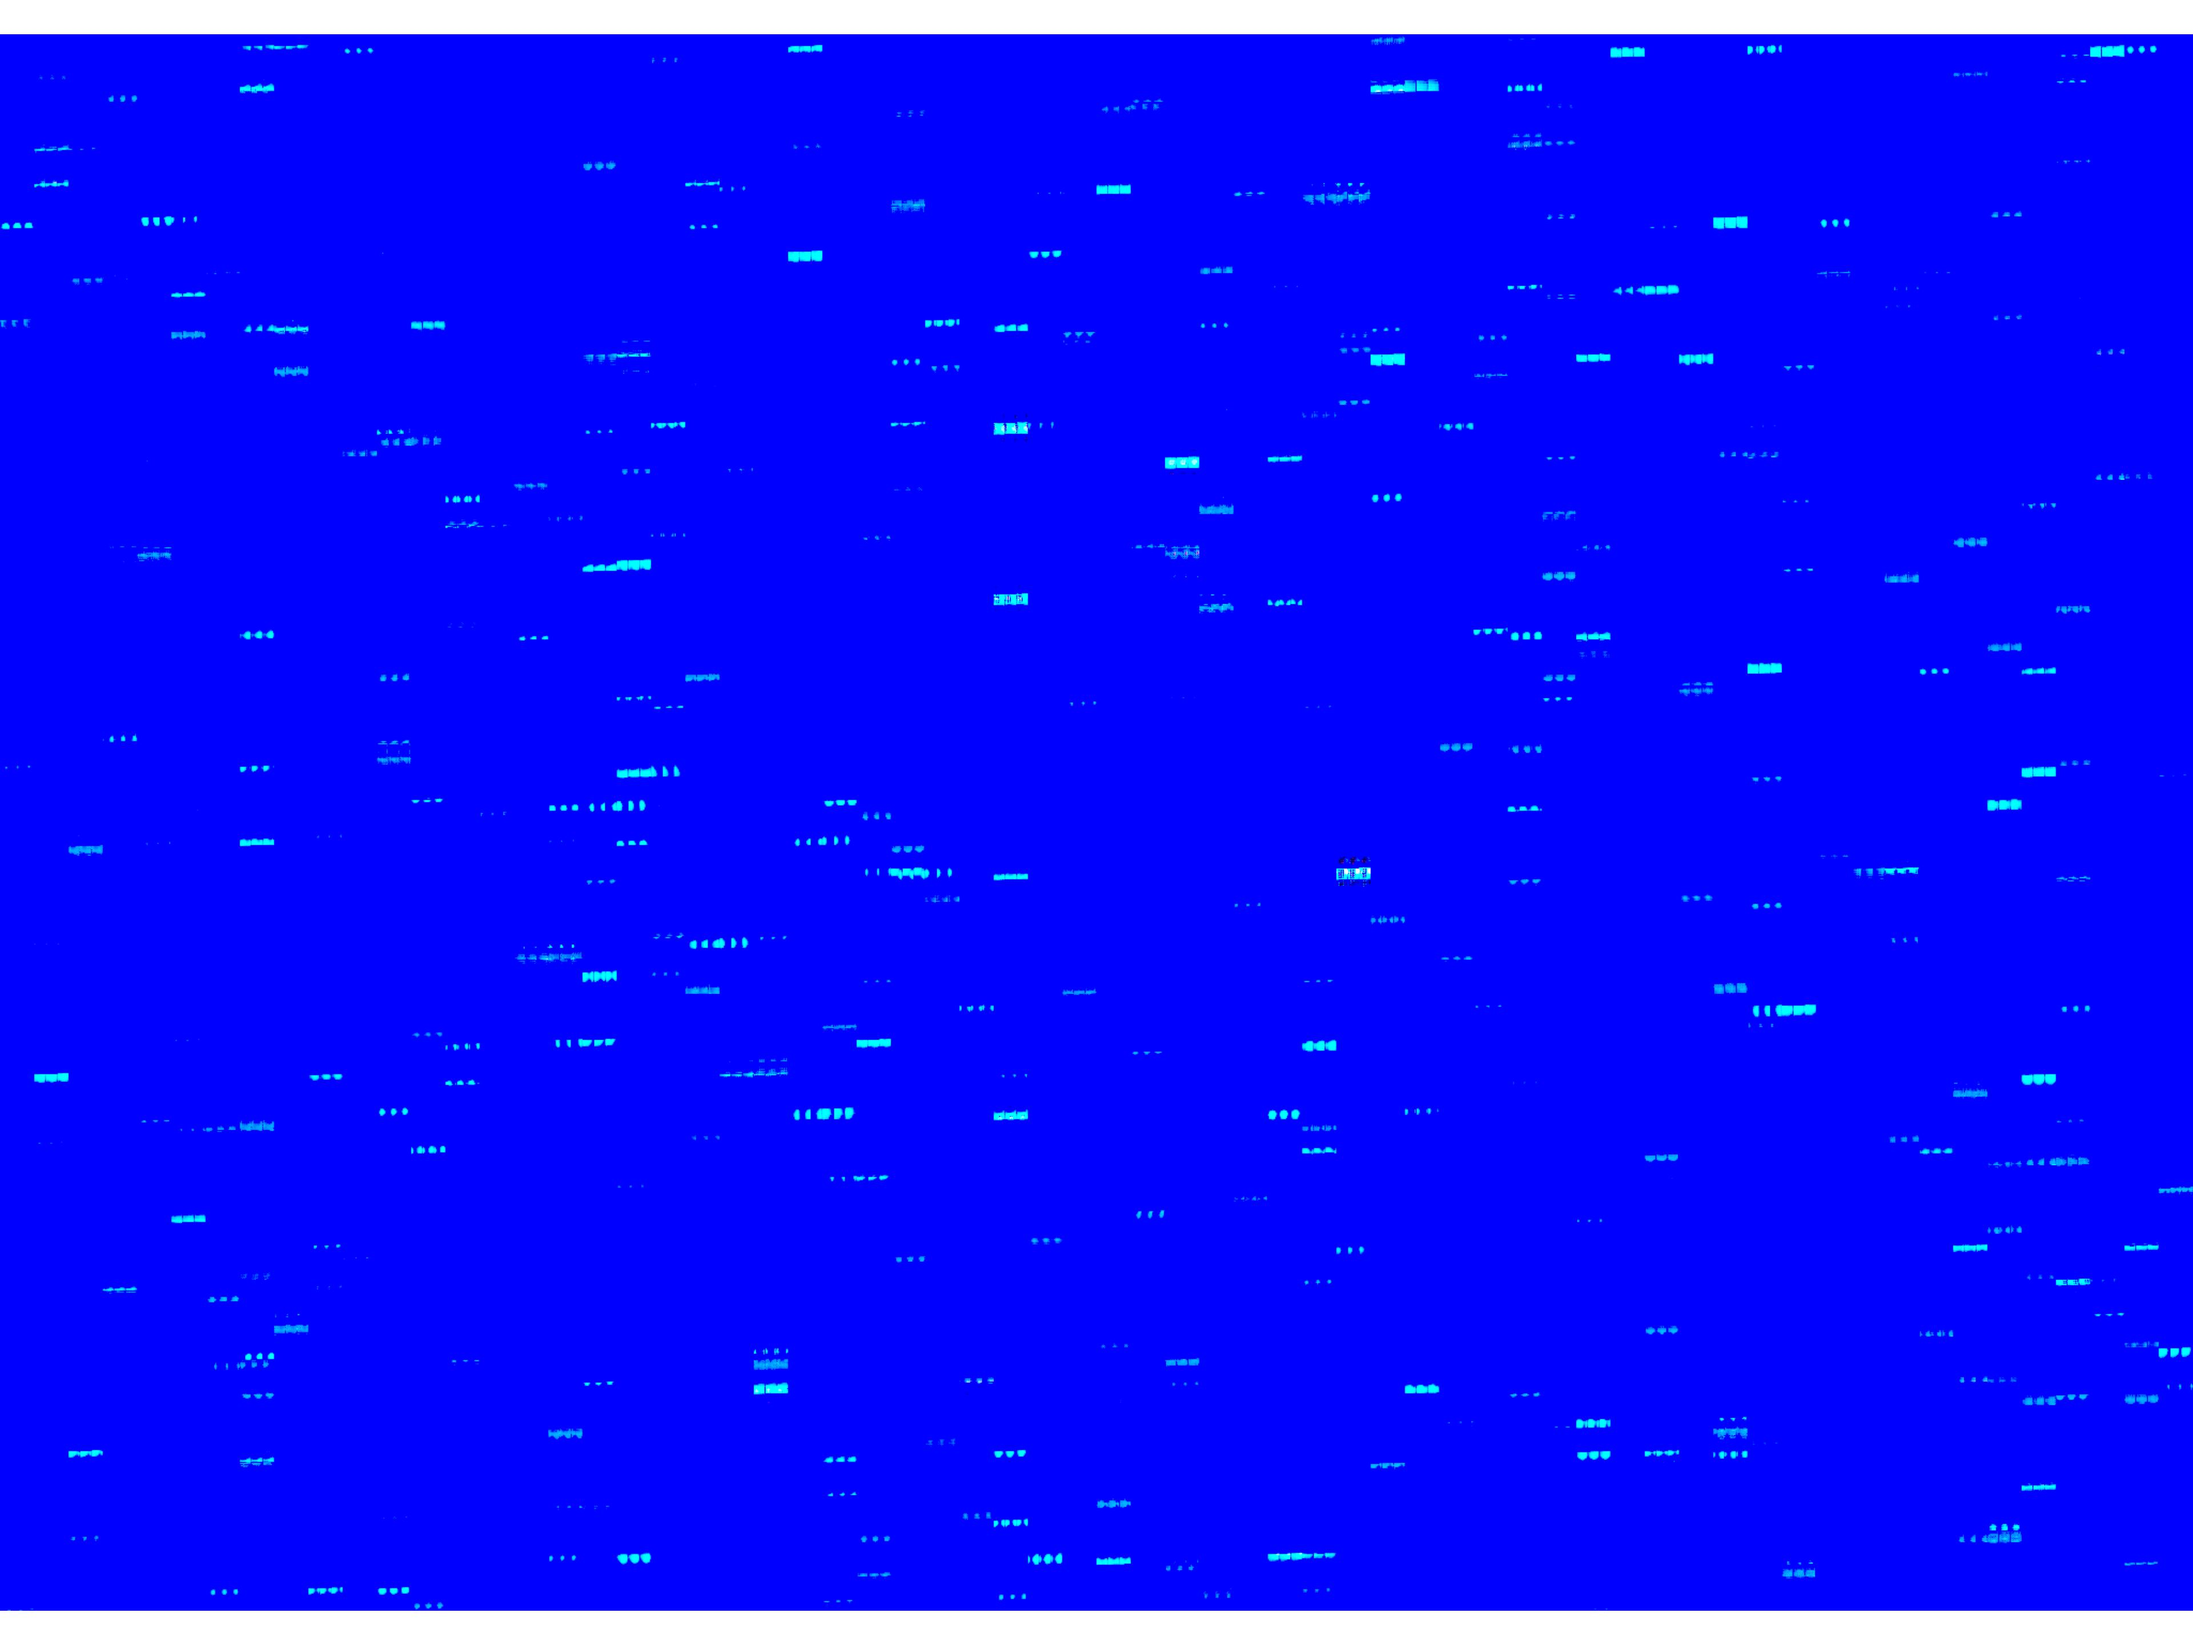
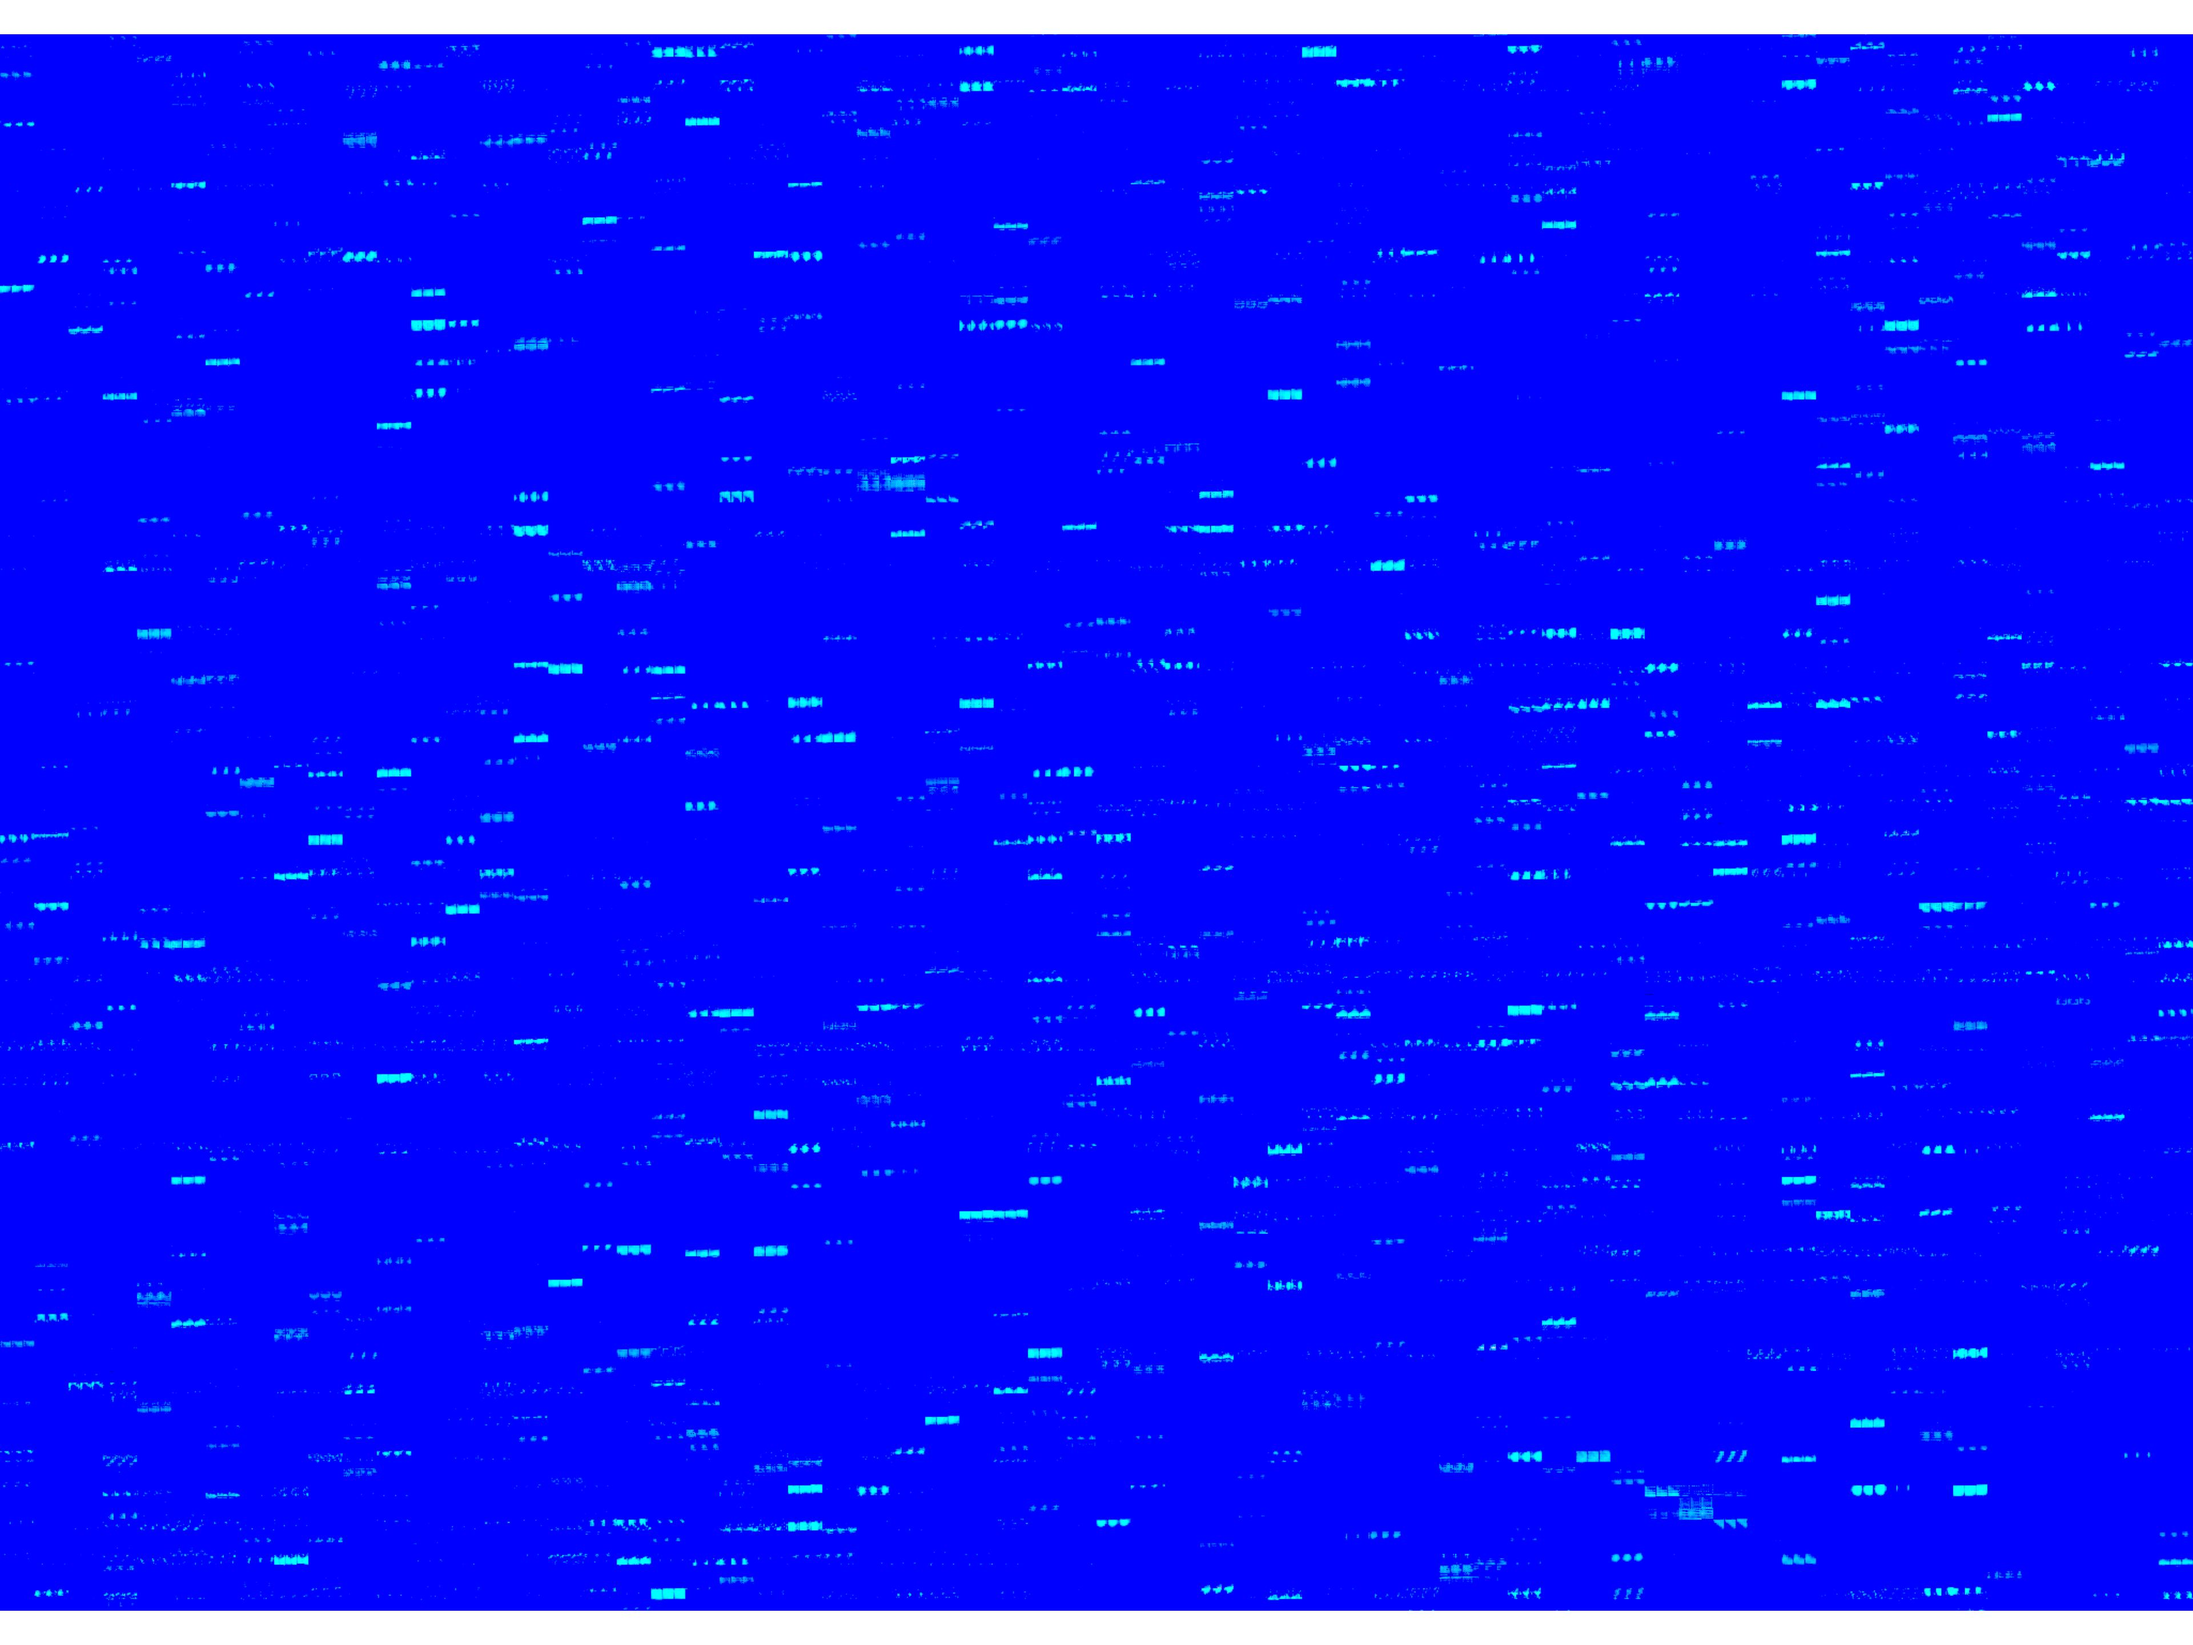
fix result images of not tuned

diff --git a/modeling_and_tuning/report_code/fix_images.py b/modeling_and_tuning/report_code/fix_images.py
@@ -12,7 +12,7 @@ from modeling_and_tuning.inference import inference
 
 def main():
     device = utils.get_device()
-    models_dir = os.path.join(const.ABSOLUTE_PATH, "models_storage", "tuned-smaller")
+    models_dir = os.path.join(const.ABSOLUTE_PATH, "models_storage", "not-tuned-smaller")
     models_files = utils.listdir_fullpath(models_dir)
     models_files = list(sorted(models_files))
 
@@ -20,8 +20,8 @@ def main():
         print(f)
         epoch_piece = re.findall(r'\d+epoch', f)[0]
         epoch = int(re.search(r'\d+[^0-9]', epoch_piece).group()[:-1])
-        if epoch < 60:
-            continue
+        # if epoch < 60:
+        #     continue
 
         model = UNetV2Smaller(const.INPUT_CHANNELS, const.OUTPUT_CHANNELS).to(device)
         model.load_state_dict(torch.load(f))
